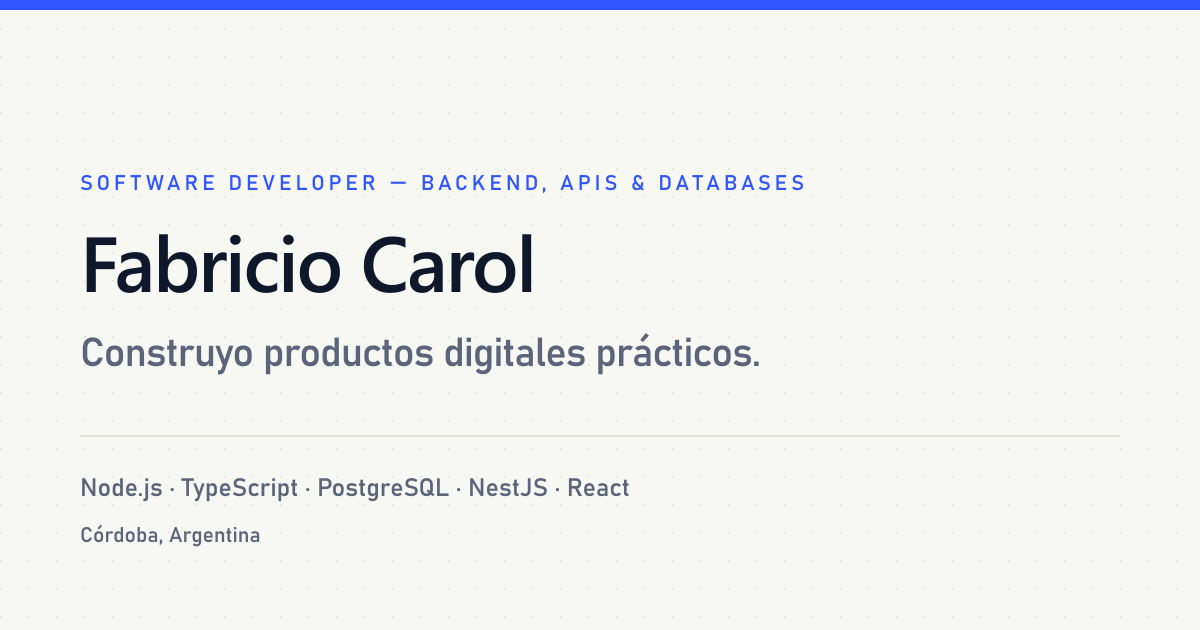
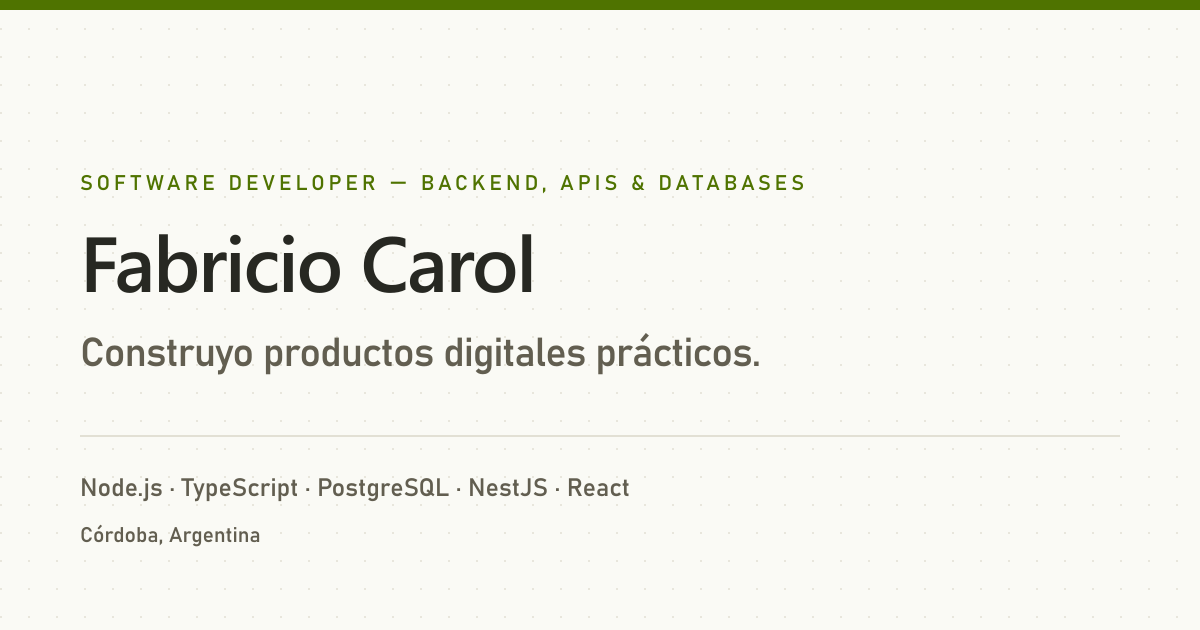
Conservar el tema al navegar y adoptar la paleta Monokai
Bug: el tema elegido se perdia en cada click del menu. El enrutador reemplaza
los atributos de <html> por los de la pagina entrante, que el servidor genera
sin la clase del tema, asi que la eleccion quedaba guardada pero no aplicada.
Se vuelve a aplicar en astro:after-swap, que corre despues del intercambio y
antes de pintar: es el unico punto donde se restaura sin parpadeo. El mismo
listener devuelve a quitar la clase no-js, que reaparecia por la misma razon.

Paleta: Monokai Classic en modo oscuro y su equivalente sobre papel en claro,
construido invirtiendo los mismos tonos en vez de tomar otra paleta.

Monokai esta pensado para codigo, no para texto corrido, y dos de sus valores
no llegan al minimo de contraste: el gris de comentarios (#75715e) da 3.0:1
sobre el fondo del editor, y su verde (#a6e22e) da 1.5:1 sobre papel. Ambos se
ajustaron al valor mas cercano del mismo tono que si pasa, con la medicion
anotada al lado de cada token.

Los colores de las capas (chips de tecnologia y diagramas de arquitectura)
pasaron de hexadecimales fijos a tokens del tema: los tonos de sintaxis de
Monokai se ven bien sobre fondo oscuro y desaparecen sobre papel, asi que cada
uno tiene su version clara y su version oscura.

Verificado cargando cada modo por separado: 0 fallos de contraste sobre 146
elementos en ambos, y el tema se mantiene al recorrer las cinco secciones.

diff --git a/src/styles/global.css b/src/styles/global.css
@@ -6,26 +6,50 @@
 @import '@fontsource-variable/jetbrains-mono';
 
 /* ── Design tokens ────────────────────────────────────────────────────────
-   "Blueprint": warm paper, dot grid, cobalt accent, acid lime used sparingly.
-   Every colour is declared once here and consumed through Tailwind utilities. */
+   Monokai. Dark mode is Monokai Classic; light mode is its warm-paper
+   counterpart, built by inverting the same hues instead of borrowing a
+   different palette.
+
+   Every colour the site uses is declared here and nowhere else, so swapping the
+   whole theme means editing these two blocks.
+
+   Monokai's own values are tuned for code, not for body text: its comment grey
+   (#75715e) reads at 3.0:1 on the editor background, well under the 4.5:1 that
+   secondary text needs, and its green (#a6e22e) sits at 1.5:1 on paper. Both are
+   adjusted below to the nearest value in the same hue that passes, with the
+   measured ratio noted. The palette stays recognisably Monokai; it just stays
+   readable too. */
 @theme {
   --font-display: 'Space Grotesk Variable', ui-sans-serif, system-ui, sans-serif;
   --font-sans: 'Inter Variable', ui-sans-serif, system-ui, sans-serif;
   --font-mono: 'JetBrains Mono Variable', ui-monospace, monospace;
 
-  --color-bg: #f7f7f4;
+  /* ── Light: Monokai on paper ── */
+  --color-bg: #fafaf5;
   --color-surface: #ffffff;
-  --color-surface-2: #f1f1ec;
-  --color-ink: #0f172a;
-  --color-muted: #5b6478;
-  --color-line: #e3e4de;
-  --color-accent: #2f55ff;
-  --color-accent-soft: #e8ecff;
-  /* Text on an accent fill. Dark mode lightens the accent, so white text would
-     drop to ~3:1 there; deep navy keeps every primary button readable. */
+  --color-surface-2: #f2f1e8;
+  /* Monokai's background becomes the ink. 14.2:1 */
+  --color-ink: #272822;
+  /* Darkened from Monokai's comment grey. 6.2:1 */
+  --color-muted: #625e50;
+  --color-line: #e2e0d4;
+  /* Monokai green darkened until it holds as link text. 5.3:1 */
+  --color-accent: #4f7300;
+  --color-accent-soft: #eaf3d2;
+  /* Text on an accent fill. 5.6:1 */
   --color-on-accent: #ffffff;
-  --color-lime: #d8f45a;
-  --color-ok: #16a34a;
+  /* Monokai yellow, used only for text selection. */
+  --color-lime: #f4bf75;
+  --color-ok: #3f7a00;
+
+  /* Layer colours for technology chips and architecture diagrams. Monokai's
+     syntax hues, darkened here so they stay visible on paper. */
+  --color-layer-language: #b81a5b;
+  --color-layer-backend: #6a3ec7;
+  --color-layer-database: #0f766e;
+  --color-layer-frontend: #b45309;
+  --color-layer-infra: #5f5c4e;
+  --color-layer-practice: #8a6100;
 
   --radius-card: 0.75rem;
 
@@ -38,21 +62,33 @@
   --text-lead: clamp(1.05rem, 0.98rem + 0.35vw, 1.25rem);
 }
 
-/* Dark mode: deep navy, never pure black. Driven by the `dark` class on <html>,
-   which an inline head script sets from storage or prefers-color-scheme. */
+/* Dark mode: Monokai Classic, unchanged where it already passes. Driven by the
+   `dark` class on <html>, which an inline head script sets from storage or from
+   the system preference, and re-applies after every client-side navigation. */
 @custom-variant dark (&:where(.dark, .dark *));
 
 .dark {
-  --color-bg: #0b1020;
-  --color-surface: #121a2e;
-  --color-surface-2: #172242;
-  --color-ink: #e8eaf2;
-  --color-muted: #9aa3b8;
-  --color-line: #233049;
-  --color-accent: #6c8cff;
-  --color-accent-soft: #1b2649;
-  --color-on-accent: #0b1020;
-  --color-ok: #4ade80;
+  --color-bg: #272822;
+  --color-surface: #3e3d32;
+  --color-surface-2: #49483e;
+  --color-ink: #f8f8f2;
+  /* Lightened from #75715e, which fails inside cards. 7.4:1 on the background,
+     4.6:1 on the lightest surface. */
+  --color-muted: #bdb7a5;
+  --color-line: #49483e;
+  /* Monokai green, exactly as it ships. 9.6:1 */
+  --color-accent: #a6e22e;
+  --color-accent-soft: #343a22;
+  /* 9.6:1 */
+  --color-on-accent: #272822;
+  --color-ok: #a6e22e;
+
+  --color-layer-language: #ff6188;
+  --color-layer-backend: #ae81ff;
+  --color-layer-database: #66d9ef;
+  --color-layer-frontend: #fd971f;
+  --color-layer-infra: #a8a290;
+  --color-layer-practice: #f4bf75;
 }
 
 @layer base {
@@ -102,7 +138,9 @@
 
   ::selection {
     background-color: var(--color-lime);
-    color: #0f172a;
+    /* Fixed rather than tokenised: the highlight keeps the same yellow in both
+       themes, so the text on it must stay dark in both. 8.9:1 */
+    color: #272822;
   }
 }
 

diff --git a/src/lib/diagram.ts b/src/lib/diagram.ts
@@ -225,16 +225,22 @@ export function layoutDiagram(
   return { nodes: positioned, edges: positionedEdges, width, height };
 }
 
-/** Node colours by role. Same palette language as the technology chips. */
+/**
+ * Maps a node's role to the theme token that colours it.
+ *
+ * Tokens rather than fixed hex values: the diagram has to stay legible in both
+ * themes, and Monokai's bright syntax hues wash out on paper. The token flips
+ * with the theme; the component never knows which palette is active.
+ */
 export const nodeStyles: Record<DiagramNode['kind'], { accent: string; label: string }> = {
-  client: { accent: '#64748b', label: 'Cliente' },
-  frontend: { accent: '#ea580c', label: 'Frontend' },
-  api: { accent: '#2f55ff', label: 'API' },
-  service: { accent: '#7c3aed', label: 'Servicio' },
-  worker: { accent: '#7c3aed', label: 'Worker' },
-  database: { accent: '#0d9488', label: 'Datos' },
-  storage: { accent: '#0d9488', label: 'Archivos' },
-  external: { accent: '#b45309', label: 'Externo' },
+  client: { accent: 'var(--color-layer-infra)', label: 'Cliente' },
+  frontend: { accent: 'var(--color-layer-frontend)', label: 'Frontend' },
+  api: { accent: 'var(--color-layer-language)', label: 'API' },
+  service: { accent: 'var(--color-layer-backend)', label: 'Servicio' },
+  worker: { accent: 'var(--color-layer-backend)', label: 'Worker' },
+  database: { accent: 'var(--color-layer-database)', label: 'Datos' },
+  storage: { accent: 'var(--color-layer-database)', label: 'Archivos' },
+  external: { accent: 'var(--color-layer-practice)', label: 'Externo' },
 };
 
 /**
